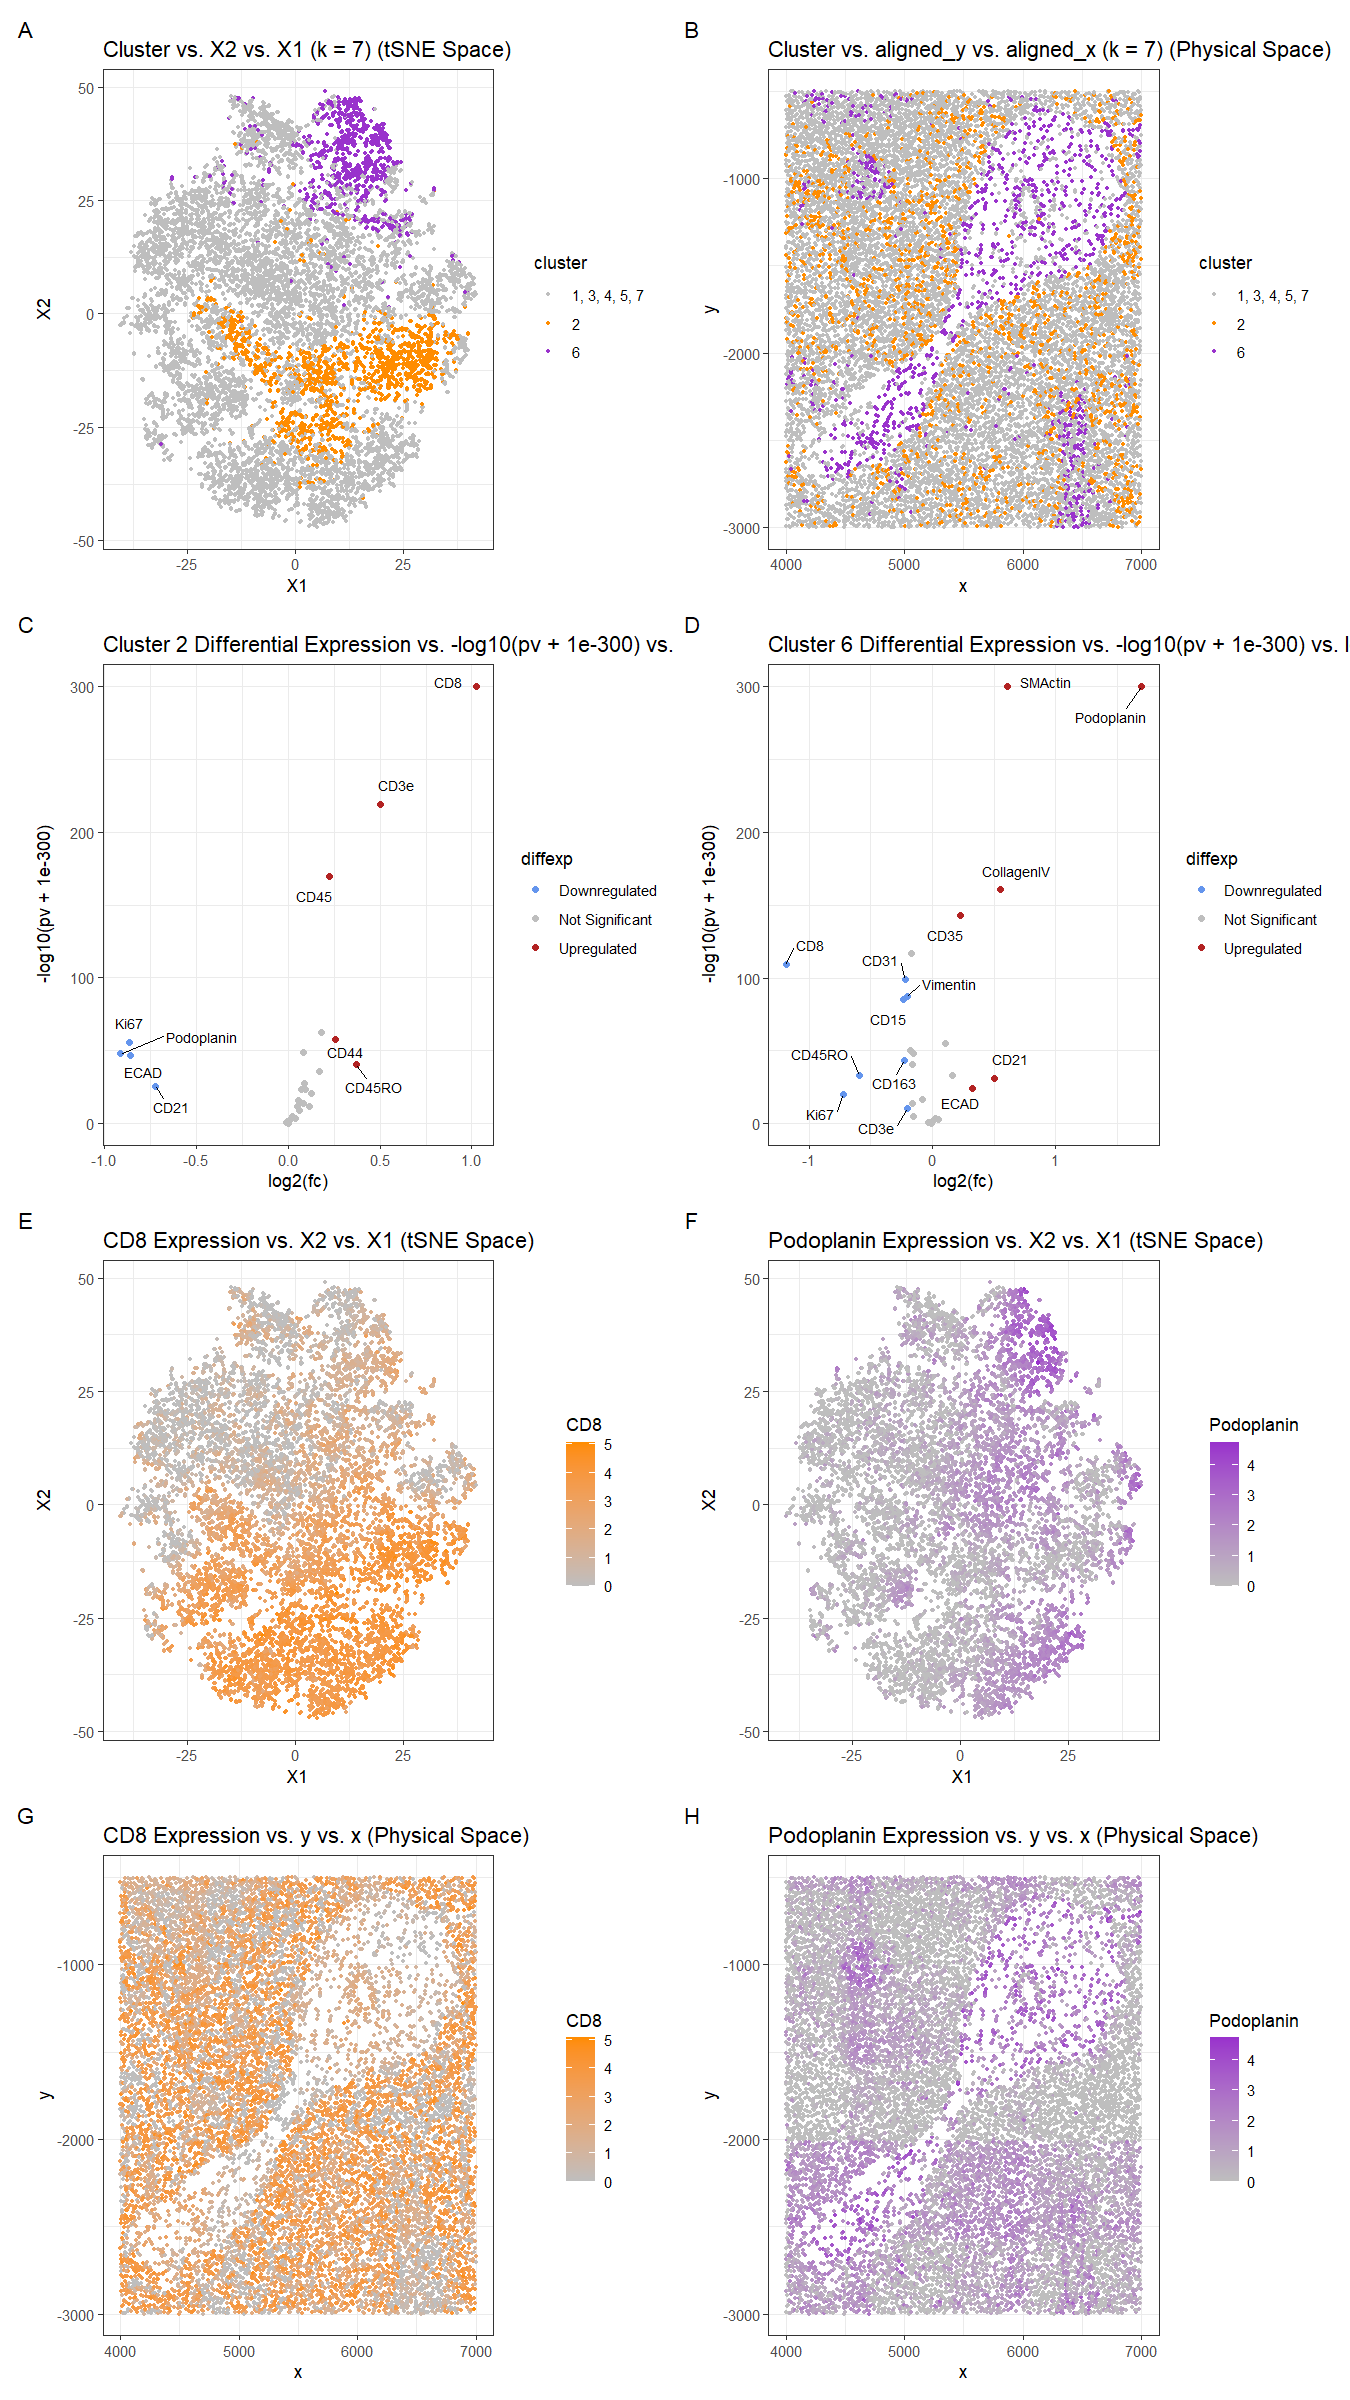
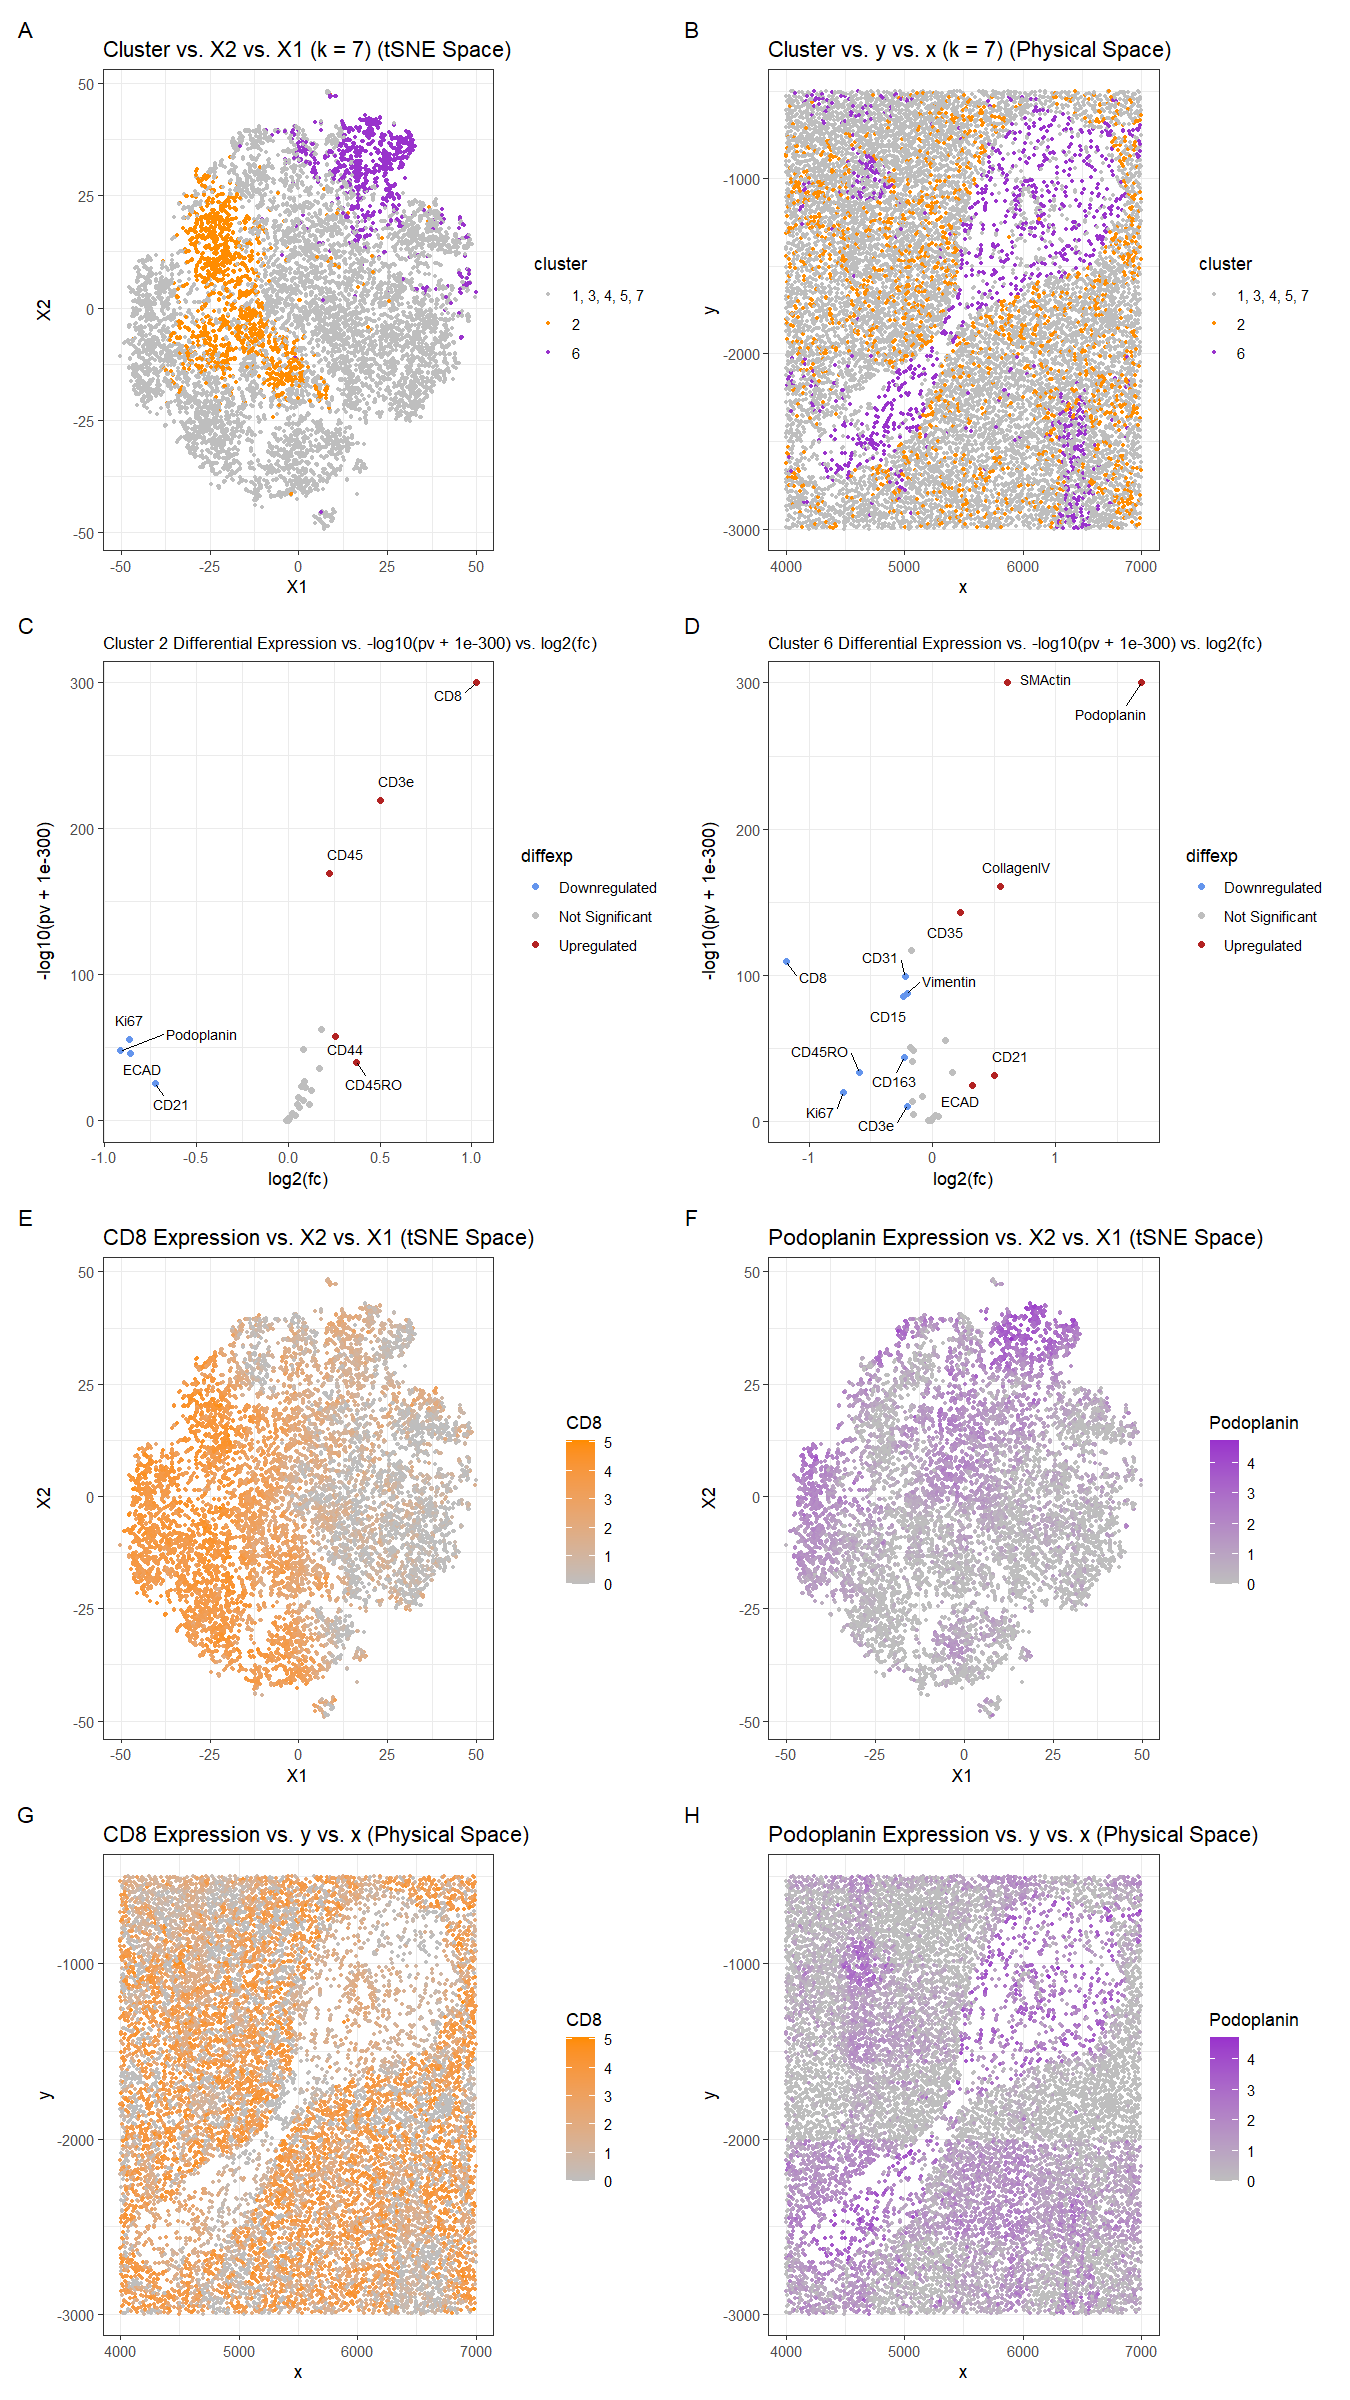
fixed title

diff --git a/_posts/2024-02-22-aying2.md b/_posts/2024-02-22-aying2.md
@@ -13,7 +13,7 @@ For plot A, I am visualizing the quantitative data of the X1 and X2 tSNE embeddi
 
 For plot B, I am visualizing the spatial data of the x and y positions for each cell, and categorical data of the cluster the cell belongs to. I am using the geometric primitive of points to represent each cell. To encode the spatial x position, I am using the visual channel of position along the x axis. To encode the spatial y position, I am using the visual channel of position along the y axis. To encode the categorical cluster the cell belongs to, I am using the visual channel of hue with orange for cluster 2, purple for cluster 6, and gray for the other clusters.
 
-For plots C and D, I am visualizing the quantitative data of the log-transformed p-value, the quantitative data of the log-transformed fold change, and the ordinal data for the differential expression level for each gene. I am using the geometric primitive of points to represent each gene. To encode the log-transformed fold change, I am using the visual channel of position along the x axis. To encode the log-transformed p-value, I am using the visual channel of position along the y axis. To encode the differential expression level, I am using visual channel of color hue with blue representing downregulated expression, red representing upregulated expression, and grey representing no significant differential expression for a given gene.
+For plots C and D, I am visualizing the quantitative data of the log-transformed p-value, the quantitative data of the log-transformed fold change, and the ordinal data for the differential expression level for each protein. I am using the geometric primitive of points to represent each gene. To encode the log-transformed fold change, I am using the visual channel of position along the x axis. To encode the log-transformed p-value, I am using the visual channel of position along the y axis. To encode the differential expression level, I am using visual channel of color hue with blue representing downregulated expression, red representing upregulated expression, and grey representing no significant differential expression for a given gene.
 
 For plot E, I am visualizing the quantitative data of the X1 and X2 tSNE embedding values, and quantitative data of normalized log-scaled CD8 expression for each cell. I am using the geometric primitive of points to represent each cell. To encode the X1 embedding value, I am using the visual channel of position along the x axis. To encode the X2 value, I am using the visual channel of position along the y axis. To encode the quantitative normalized log-scaled CD8 expression, I am using the visual channel of saturation going from an unsaturated light grey to a saturated orange.
 
@@ -40,9 +40,9 @@ The p-values were -log10 transformed with an offset of 1e-300, so small p-values
 
 Finally, downregulated and upregulated proteins were labeled with their names. CD8 was chosen as a protein of interest for cluster 2 and its expression was graphed in tSNE and physical space. In the tSNE space, Cluster 2 was contained within the regions of high CD8 expression, but the regions of high CD8 expression were more vast than cluster 2, indicating that some of the other clusters likely also upregulate CD8. A similar finding was there for cluster 6 and podoplanin. These findings are likely related to the k-means clustering, since the elbow for this dataset was weaker than in previous homeworks, and the clusters are perhaps not as distinguished. For the spatial plots in physical space, the protein expression values generally aligned with the cluster locations.
 
-For cluster 2, the top most upregulated genes (CD8, CD3e, CD45), were searched for on Human Protein Atlas to identify the cell-type the cluster corresponds to (https://www.proteinatlas.org). Knowing that the tissue sample was from the spleen, CD8 is known to have notable expression in the T-cells with the number of transcripts per million (nTPM) of 779.2 for T-cell cluster c-1 (z-score 1.28) and 542.4 nTPM for T-cell cluster c-7 (z-score 1.13) (https://www.proteinatlas.org/ENSG00000153563-CD8A/single+cell+type/spleen). This is significantly higher expression than for the other cell types (macrophages, B-cells, Plasma cells, etc), the nTPM for which are < 50. CD3e is also upregulated in the T-cells of the spleen, with an nTPM >1000 for T-cell clusters c-1, c-2, and c-7 and z-scores of ~0.87. The expression (nTPM) for the other cells types is again < 50nTPM. CD45 is upregulated in the T-cells of the spleen, with an nTPM ~1000 for T-cell clusters c-1, c-2, and c-7 and a z-score of 1.05 for c-1. The expression (nTPM) for macrophages and B-cells is also relatively high. Overall, these findings suggest that cluster 2 consists of T-cells.
+For cluster 2, the top most upregulated proteins (CD8, CD3e, CD45), were searched for on Human Protein Atlas to identify the cell-type the cluster corresponds to (https://www.proteinatlas.org). Knowing that the tissue sample was from the spleen, CD8 is known to have notable expression in the T-cells with the number of transcripts per million (nTPM) of 779.2 for T-cell cluster c-1 (z-score 1.28) and 542.4 nTPM for T-cell cluster c-7 (z-score 1.13) (https://www.proteinatlas.org/ENSG00000153563-CD8A/single+cell+type/spleen). This is significantly higher expression than for the other cell types (macrophages, B-cells, Plasma cells, etc), the nTPM for which are < 50. CD3e is also upregulated in the T-cells of the spleen, with an nTPM >1000 for T-cell clusters c-1, c-2, and c-7 and z-scores of ~0.87. The expression (nTPM) for the other cells types is again < 50nTPM. CD45 is upregulated in the T-cells of the spleen, with an nTPM ~1000 for T-cell clusters c-1, c-2, and c-7 and a z-score of 1.05 for c-1. The expression (nTPM) for macrophages and B-cells is also relatively high. Overall, these findings suggest that cluster 2 consists of T-cells.
 
-For cluster 6, the top most upregulated genes were podoplanin, SMActin, and CollagenIV. Podoplanin's tissue profile states that it has "Distinct expression in alveoli, lymphatic vessels, placental and ovarian stroma, myoepithelium and basal cells of squamous epithelia" (https://www.proteinatlas.org/ENSG00000162493-PDPN). The expression for lympathic epithelial cells is significant at 304.9 nTPM. SMActin (ACTA2) is known to have "Selective expression in smooth muscle cells and myoepithelial cells" (https://www.proteinatlas.org/ENSG00000107796-ACTA2). The expression for smooth muscle cells is extremely significant at 4036.1 nTPM. CollagenIV (COL4A1) enhanced in the "Extravillous trophoblasts, Smooth muscle cells, Adipocytes, Endometrial stromal cells, Fibroblasts, Endothelial cells, Sertoli cells" (https://www.proteinatlas.org/ENSG00000187498-COL4A1). The expression for smooth muscle is significant at 412.6 nTPM. Overall, these finding suggest that cluster 6 consists of smooth muscle cells lining the vessels of the spleen. This aligns with figures B and H, which show cluster 6 and podoplanin expression concentrated around a circlular object, likely a vessel.
+For cluster 6, the top most upregulated proteins were podoplanin, SMActin, and CollagenIV. Podoplanin's tissue profile states that it has "Distinct expression in alveoli, lymphatic vessels, placental and ovarian stroma, myoepithelium and basal cells of squamous epithelia" (https://www.proteinatlas.org/ENSG00000162493-PDPN). The expression for lympathic epithelial cells is significant at 304.9 nTPM. SMActin (ACTA2) is known to have "Selective expression in smooth muscle cells and myoepithelial cells" (https://www.proteinatlas.org/ENSG00000107796-ACTA2). The expression for smooth muscle cells is extremely significant at 4036.1 nTPM. CollagenIV (COL4A1) enhanced in the "Extravillous trophoblasts, Smooth muscle cells, Adipocytes, Endometrial stromal cells, Fibroblasts, Endothelial cells, Sertoli cells" (https://www.proteinatlas.org/ENSG00000187498-COL4A1). The expression for smooth muscle is significant at 412.6 nTPM. Overall, these finding suggest that cluster 6 consists of smooth muscle cells lining the vessels of the spleen. This aligns with figures B and H, which show cluster 6 and podoplanin expression concentrated around a circlular object, likely a vessel.
 
 From this, I predict this tissue structure to be white pulp because of the high concentration of lymphocytes and organization around central vessel. The white pulp is known to be "located around a central arteriole" and "is composed of the periarteriolar lymphoid sheath (PALS, T-cell area)." (https://www.ncbi.nlm.nih.gov/pmc/articles/PMC1828535/).
 
@@ -220,7 +220,8 @@ p7 <- ggplot(df6) +
 p7
 
 p8 <- ggplot(df6) + 
-    geom_point(aes(x = x, y = y, col=Podoplanin), size=0.8) +
+    geom_point(aes(x = x, y = y, col=Podoplanin), s
+    ize=0.8) +
     labs(title = 'Podoplanin Expression vs. y vs. x (Physical Space)') +
     scale_color_gradient(low="grey", high="darkorchid")+
     theme_bw()
